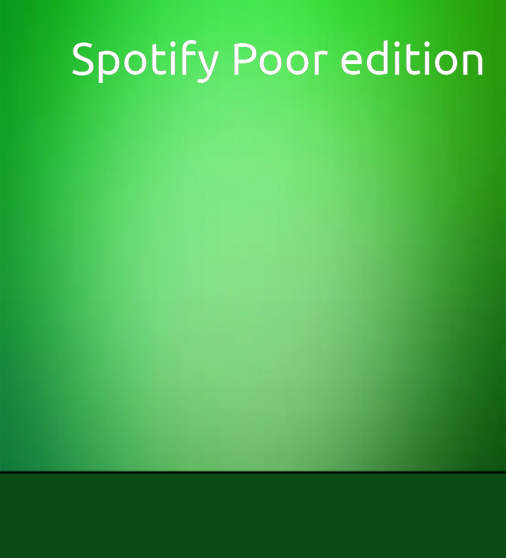
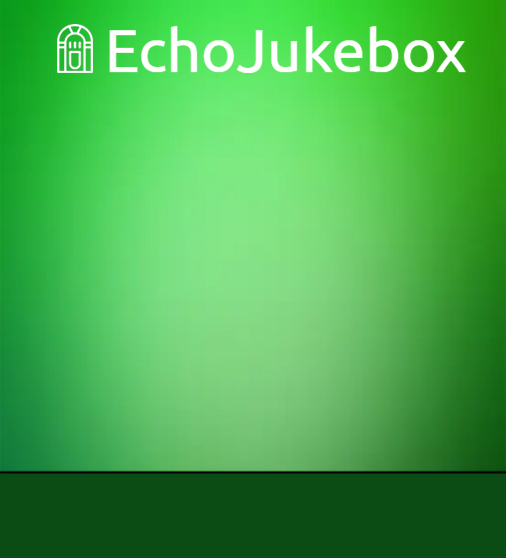
Created the main page and main buttons

Changed region(s): [[0.0889, 0.0305, 0.9783, 0.1523]]

diff --git a/ExamTeamProject/Form1.Designer.cs b/ExamTeamProject/Form1.Designer.cs
@@ -29,36 +29,69 @@ namespace ExamTeamProject
         /// </summary>
         private void InitializeComponent()
         {
-            this.pictureBox1 = new System.Windows.Forms.PictureBox();
-            ((System.ComponentModel.ISupportInitialize)(this.pictureBox1)).BeginInit();
+            this.Playlist = new System.Windows.Forms.PictureBox();
+            this.Search = new System.Windows.Forms.PictureBox();
+            this.Home = new System.Windows.Forms.PictureBox();
+            ((System.ComponentModel.ISupportInitialize)(this.Playlist)).BeginInit();
+            ((System.ComponentModel.ISupportInitialize)(this.Search)).BeginInit();
+            ((System.ComponentModel.ISupportInitialize)(this.Home)).BeginInit();
             this.SuspendLayout();
             // 
-            // pictureBox1
+            // Playlist
             // 
-            this.pictureBox1.BackColor = System.Drawing.Color.Transparent;
-            this.pictureBox1.Image = global::ExamTeamProject.Properties.Resources.HomeIcon;
-            this.pictureBox1.Location = new System.Drawing.Point(24, 423);
-            this.pictureBox1.Name = "pictureBox1";
-            this.pictureBox1.Size = new System.Drawing.Size(100, 84);
-            this.pictureBox1.TabIndex = 1;
-            this.pictureBox1.TabStop = false;
+            this.Playlist.BackColor = System.Drawing.Color.FromArgb(((int)(((byte)(10)))), ((int)(((byte)(76)))), ((int)(((byte)(20)))));
+            this.Playlist.Image = global::ExamTeamProject.Properties.Resources.PlayIcon;
+            this.Playlist.Location = new System.Drawing.Point(329, 442);
+            this.Playlist.Name = "Playlist";
+            this.Playlist.Size = new System.Drawing.Size(152, 78);
+            this.Playlist.TabIndex = 3;
+            this.Playlist.TabStop = false;
+            this.Playlist.Click += new System.EventHandler(this.Playlist_Click);
+            // 
+            // Search
+            // 
+            this.Search.BackColor = System.Drawing.Color.FromArgb(((int)(((byte)(10)))), ((int)(((byte)(76)))), ((int)(((byte)(20)))));
+            this.Search.Image = global::ExamTeamProject.Properties.Resources.SearchIcon;
+            this.Search.Location = new System.Drawing.Point(178, 446);
+            this.Search.Name = "Search";
+            this.Search.Size = new System.Drawing.Size(74, 82);
+            this.Search.TabIndex = 2;
+            this.Search.TabStop = false;
+            this.Search.Click += new System.EventHandler(this.Search_Click);
+            // 
+            // Home
+            // 
+            this.Home.BackColor = System.Drawing.Color.FromArgb(((int)(((byte)(10)))), ((int)(((byte)(76)))), ((int)(((byte)(20)))));
+            this.Home.Image = global::ExamTeamProject.Properties.Resources.HomeIcon;
+            this.Home.Location = new System.Drawing.Point(20, 451);
+            this.Home.Name = "Home";
+            this.Home.Size = new System.Drawing.Size(60, 84);
+            this.Home.TabIndex = 1;
+            this.Home.TabStop = false;
+            this.Home.Click += new System.EventHandler(this.Home_Click);
             // 
             // Form1
             // 
             this.AutoScaleDimensions = new System.Drawing.SizeF(6F, 13F);
             this.AutoScaleMode = System.Windows.Forms.AutoScaleMode.Font;
             this.ClientSize = new System.Drawing.Size(490, 519);
-            this.Controls.Add(this.pictureBox1);
+            this.Controls.Add(this.Playlist);
+            this.Controls.Add(this.Search);
+            this.Controls.Add(this.Home);
             this.Name = "Form1";
             this.Text = "Form1";
-            ((System.ComponentModel.ISupportInitialize)(this.pictureBox1)).EndInit();
+            ((System.ComponentModel.ISupportInitialize)(this.Playlist)).EndInit();
+            ((System.ComponentModel.ISupportInitialize)(this.Search)).EndInit();
+            ((System.ComponentModel.ISupportInitialize)(this.Home)).EndInit();
             this.ResumeLayout(false);
 
         }
 
         #endregion
 
-        private System.Windows.Forms.PictureBox pictureBox1;
+        private System.Windows.Forms.PictureBox Home;
+        private System.Windows.Forms.PictureBox Search;
+        private System.Windows.Forms.PictureBox Playlist;
     }
 }
 

diff --git a/ExamTeamProject/Form1.cs b/ExamTeamProject/Form1.cs
@@ -1,34 +1,52 @@
 using System;
-using System.Collections.Generic;
-using System.ComponentModel;
-using System.Data;
 using System.Drawing;
-using System.Linq;
-using System.Text;
-using System.Threading.Tasks;
 using System.Windows.Forms;
+
 
 namespace ExamTeamProject {
     public partial class Form1 : Form {
+        private PictureBox pbBackground;
+
         public Form1() {
             InitializeComponent();
-            SetBackgroundImage("C:\\Users\\pktb\\source\\repos\\ExamTeamProject\\ExamTeamProject\\MainPageBg.jpg");
+
+            InitializeBackgroundImage();
+            Text = "EchoJukebox";
+            Icon = new Icon("C:\\Users\\pktb\\source\\repos\\ExamTeamProject\\ExamTeamProject\\Icon.ico");
         }
 
-        private void label1_Click(object sender, EventArgs e)
-        {
+        // Изменение фона идет через PictureBox т.к. он более гибкий плане изменений
 
-        }
-
-        private void SetBackgroundImage(string imagePath) {
-            PictureBox pbBackground = new PictureBox();
-            pbBackground.Image = Image.FromFile(imagePath);
-            pbBackground.SizeMode = PictureBoxSizeMode.StretchImage;
-            pbBackground.Dock = DockStyle.Fill;
+        private void InitializeBackgroundImage() {
+            pbBackground = new PictureBox(); // создаем новый PictureBox
+            pbBackground.SizeMode = PictureBoxSizeMode.StretchImage; // увеличение PictureBox пропорционально
+            pbBackground.Dock = DockStyle.Fill; // растягиваем его на весь экран
             pbBackground.BackColor = Color.Transparent;
 
             this.Controls.Add(pbBackground);
-            this.SendToBack();
+            this.SendToBack(); // добавляем его на экран
+
+            SetBackgroundImage("C:\\Users\\pktb\\source\\repos\\ExamTeamProject\\ExamTeamProject\\MainPageBg.jpg");
+        }
+
+        private void SetBackgroundImage(string imagePath) {
+            pbBackground.Image = Image.FromFile(imagePath);
+        }
+
+        private void Home_Click(object sender, EventArgs e) {
+            SetBackgroundImage("C:\\Users\\pktb\\source\\repos\\ExamTeamProject\\ExamTeamProject\\MainPageBg.jpg");
+            MessageBox.Show("Home button is working", "Test", MessageBoxButtons.OK);
+        }
+
+        private void Search_Click(object sender, EventArgs e) {
+            SetBackgroundImage("C:\\Users\\pktb\\source\\repos\\ExamTeamProject\\ExamTeamProject\\MainPageBg1.jpg");
+            MessageBox.Show("Search button is working", "Test", MessageBoxButtons.OK);
+        }
+
+        private void Playlist_Click(object sender, EventArgs e) {
+            SetBackgroundImage("C:\\Users\\pktb\\source\\repos\\ExamTeamProject\\ExamTeamProject\\MainPageBg1.jpg");
+            MessageBox.Show("Play button is working", "Test", MessageBoxButtons.OK);
         }
     }
 }
+

diff --git a/ExamTeamProject/Properties/Resources.Designer.cs b/ExamTeamProject/Properties/Resources.Designer.cs
@@ -69,5 +69,35 @@ namespace ExamTeamProject.Properties {
                 return ((System.Drawing.Bitmap)(obj));
             }
         }
+        
+        /// <summary>
+        ///   Looks up a localized resource of type System.Drawing.Bitmap.
+        /// </summary>
+        internal static System.Drawing.Bitmap MainPageBg {
+            get {
+                object obj = ResourceManager.GetObject("MainPageBg", resourceCulture);
+                return ((System.Drawing.Bitmap)(obj));
+            }
+        }
+        
+        /// <summary>
+        ///   Looks up a localized resource of type System.Drawing.Bitmap.
+        /// </summary>
+        internal static System.Drawing.Bitmap PlayIcon {
+            get {
+                object obj = ResourceManager.GetObject("PlayIcon", resourceCulture);
+                return ((System.Drawing.Bitmap)(obj));
+            }
+        }
+        
+        /// <summary>
+        ///   Looks up a localized resource of type System.Drawing.Bitmap.
+        /// </summary>
+        internal static System.Drawing.Bitmap SearchIcon {
+            get {
+                object obj = ResourceManager.GetObject("SearchIcon", resourceCulture);
+                return ((System.Drawing.Bitmap)(obj));
+            }
+        }
     }
 }
